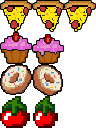
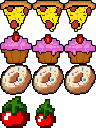
invaders: Add three frames animations

Changed region(s): [[0.3125, 0.25, 1.0, 1.0]]

diff --git a/samples/game-engine/renderer.cpp b/samples/game-engine/renderer.cpp
@@ -4,29 +4,29 @@ namespace ptc {
 
 namespace engine {
 
-  int Renderer::BASE_WIDTH = 800;
-  int Renderer::BASE_HEIGHT = 640;
+int Renderer::BASE_WIDTH = 800;
+int Renderer::BASE_HEIGHT = 640;
 
-  Renderable::Renderable(TextureRegion& textureRegion,
-                         std::shared_ptr<Actor> actor)
-             : textureRegion_{textureRegion}
-             , actor_{actor} {
+Renderable::Renderable(TextureRegion& textureRegion,
+                       std::shared_ptr<Actor> actor)
+           : textureRegion_{textureRegion}
+           , actor_{actor} {
 
-    sprite_.setTexture(textureRegion.getTexture());
-    sprite_.setTextureRect(textureRegion.getInitialRect());
+  sprite_.setTexture(textureRegion.getTexture());
+  sprite_.setTextureRect(textureRegion.getInitialRect());
 
-  }
+}
 
-  void
-  Renderable::render(sf::RenderWindow& window) {
+void
+Renderable::render(sf::RenderWindow& window) {
 
-    if (!visible_) return;
+  if (!visible_) return;
 
-    sprite_.setPosition(actor_->getPos());
-    sprite_.setScale(actor_->getScale());
-    window.draw(sprite_);
+  sprite_.setPosition(actor_->getPos());
+  sprite_.setScale(actor_->getScale());
+  window.draw(sprite_);
 
-  }
+}
 
 std::shared_ptr<Actor>
 Renderable::getActor() {
@@ -35,42 +35,59 @@ Renderable::getActor() {
 
 }
 
-  Renderer::Renderer()
-           : Renderer(BASE_WIDTH, BASE_HEIGHT) { }
+void
+Renderable::setFrame(int i) {
 
-  Renderer::Renderer(size_t w, size_t h)
-           : width_{w}
-           , height_{h} { }
+  int w = textureRegion_.getInitialRect().width;
+  int h = textureRegion_.getInitialRect().height;
 
-  void
-  Renderer::render(sf::RenderWindow& window) {
+  sf::IntRect rect;
+  rect.width = w;
+  rect.height = h;
+  rect.top = textureRegion_.getInitialRect().top;
+  rect.left = textureRegion_.getInitialRect().left + i * w;
 
-    for (const auto& tuple : components_) {
-      auto& list = tuple.second;
-      for (const auto& component : list) {
-        component->render(window);
-      }
+  sprite_.setTextureRect(rect);
+
+}
+
+
+Renderer::Renderer()
+         : Renderer(BASE_WIDTH, BASE_HEIGHT) { }
+
+Renderer::Renderer(size_t w, size_t h)
+         : width_{w}
+         , height_{h} { }
+
+void
+Renderer::render(sf::RenderWindow& window) {
+
+  for (const auto& tuple : components_) {
+    auto& list = tuple.second;
+    for (const auto& component : list) {
+      component->render(window);
     }
-
-
   }
 
-  void
-  Renderer::resize(size_t newWidth, size_t newHeight) {
 
-    width_ = newWidth;
-    height_ = newHeight;
+}
 
-  }
+void
+Renderer::resize(size_t newWidth, size_t newHeight) {
 
-  void
-  Renderer::enqueue(std::string listId,
-                    std::shared_ptr<Renderable>& component) {
+  width_ = newWidth;
+  height_ = newHeight;
 
-    auto& list = components_[listId];
-    list.push_front(component);
+}
 
-  }
+void
+Renderer::enqueue(std::string listId,
+                  std::shared_ptr<Renderable>& component) {
+
+  auto& list = components_[listId];
+  list.push_front(component);
+
+}
 
 std::list<std::shared_ptr<Renderable>>&
 Renderer::getList(std::string listId) {

diff --git a/samples/invaders/world.cpp b/samples/invaders/world.cpp
@@ -4,7 +4,6 @@ namespace ptc {
 
 namespace invader {
 
-size_t World::MAX_NB_FRAMES_NOINPUT = 10;
 size_t World::GAME_WIDTH = 800;
 size_t World::GAME_HEIGHT = 640;
 size_t World::PARTICLE_SIZE = 4;
@@ -12,9 +11,10 @@ float World::INIT_ARROW_SIDE_LEN = 4666.0f;
 float World::ENEMY_SPEED = 16.0f;
 float World::PLAYER_SPEED = 190.0f;
 float World::BULLET_SPEED = 220.0f;
-float World::TIME_BETWEEN_SHOT = 0.7f;
+float World::TIME_BETWEEN_SHOT = 0.8f;
 float World::TIME_BEFORE_RESET_ARROW = 0.45f;
 float World::TIME_TEMPLATE_DETECTION = 2.0f;
+float World::TIME_PLAYER_ANIM = 0.5f;
 float World::TIME_SCALE_TITLE_ANIM = 1.5f;
 
 float World::PARTICLE_SPEED = 68.0f;
@@ -23,7 +23,7 @@ size_t World::TEXT_SIZE_COUNTER = 64;
 size_t World::TEXT_SIZE_GAMEOVER = 48;
 size_t World::TEXT_SIZE_SCORE = 24;
 
-size_t World::NB_ENEMIES = 1;
+size_t World::NB_ENEMIES = 55;
 
 int World::TIME_BEFORE_START = 3;
 int World::TIME_BEFORE_RESET = 5;
@@ -275,7 +275,14 @@ World::updateGame() {
   }
 
   playerActor_->setDelta(deltaTime_);
+  // Resets player initial frame
+  if (timerPlayerAnimation_.getElapsedTime().asSeconds() >= TIME_PLAYER_ANIM) {
+    auto& renderable = renderer_.getList("player").front();
+    renderable->setFrame(0);
+  }
+
   ia_.update(deltaTime_, enemiesList, bulletsList, regionsPool_["bullet"]);
+
   Tracker::instance()->update();
 
   timeBeforeShot_ += deltaTime_;
@@ -413,11 +420,13 @@ World::setupWin() {
   gameoverUI_.setPosition(halfWidth, (GAME_HEIGHT / 4) - halfSize);
 
   scoreText_.setCharacterSize(TEXT_SIZE_GAMEOVER);
-  scoreText_.setPosition(halfWidth, (GAME_HEIGHT / 2) - 24.0f);
+  scoreText_.setString("SCORE: ");
+  scoreText_.setPosition((GAME_WIDTH / 2) - (halfSize * 7) / 2,
+                         (GAME_HEIGHT / 2) - halfSize);
 
   variableText_.setCharacterSize(TEXT_SIZE_GAMEOVER);
   variableText_.setPosition(halfWidth + 10 * halfSize,
-                            (GAME_HEIGHT / 2) - 24.0f);
+                            (GAME_HEIGHT / 2) - halfSize);
 
   timerBeforeStart_.restart();
 
@@ -539,6 +548,7 @@ World::registerEvents() {
 
   auto& player = playerActor_;
   auto& timeShot = timeBeforeShot_;
+  auto& timerPlayerAnim = timerPlayerAnimation_;
   auto& renderer = renderer_;
   auto& pool = regionsPool_;
 
@@ -554,7 +564,7 @@ World::registerEvents() {
 
   });
   processor_->registerEvent(ptc::event::Event::UP, [&timeShot, &player,
-  &renderer, &pool]() ->
+  &renderer, &pool, &timerPlayerAnim]() ->
     void {
 
     if (timeShot < World::TIME_BETWEEN_SHOT) return;
@@ -571,6 +581,11 @@ World::registerEvents() {
 
     renderer.enqueue("bullet", renderable);
     timeShot = 0.0f;
+
+    auto& playerRenderable = renderer.getList("player").front();
+    playerRenderable->setFrame(1);
+
+    timerPlayerAnim.restart();
 
   });
 

diff --git a/samples/invaders/ia.cpp b/samples/invaders/ia.cpp
@@ -12,7 +12,8 @@ IA::IA()
    , dir_{IA::Dir::RIGHT}
    , nbMoves_{IA::MAX_NB_MOVES - 1}
    , elapsed_{0.0f}
-   , elapsedShot_{0.0f} { }
+   , elapsedShot_{0.0f}
+   , playedAnim_{false} { }
 
 void
 IA::update(float delta,
@@ -20,13 +21,23 @@ IA::update(float delta,
            std::list<std::shared_ptr<ptc::engine::Renderable>>& bullets,
            const std::shared_ptr<ptc::engine::TextureRegion>& bulletTexture) {
 
+  static float TIME_BEFORE_MV = 1.0f;
+  static float TIME_BEFORE_SHOT = 1.85f;
+
   elapsed_ += delta;
   elapsedShot_ += delta;
 
   if (delta <= 0.005f) return;
 
-  static float TIME_BEFORE_MV = 1.0f;
-  static float TIME_BEFORE_SHOT = 3.0f;
+  // Plays the move animation
+  if (!playedAnim_ && elapsed_ >= TIME_BEFORE_MV / 2) {
+    int frame = 1;
+    if (dir_ == IA::Dir::RIGHT) frame = 2;
+    for (auto& actor : actors) {
+      actor->setFrame(frame);
+    }
+    playedAnim_ = true;
+  }
 
   if (elapsed_ >= TIME_BEFORE_MV) {
     IA::CmdPtr cmd = nullptr;
@@ -41,8 +52,13 @@ IA::update(float delta,
       auto a = std::dynamic_pointer_cast<MovingActor>(actor->getActor());
       a->setDelta(1.0f);
       cmd->execute(a);
+
+      // Resets animation state
+      actor->setFrame(0);
     }
     elapsed_ = 0.0f;
+    playedAnim_ = false;
+
 
     // Changes direction whevener the enemies have
     // reached the other side.

diff --git a/samples/invaders/world.hpp b/samples/invaders/world.hpp
@@ -43,7 +43,6 @@ class World {
 
   private:
     // Game constants
-    static size_t MAX_NB_FRAMES_NOINPUT;
     static size_t GAME_WIDTH;
     static size_t GAME_HEIGHT;
     static size_t PARTICLE_SIZE;
@@ -55,6 +54,7 @@ class World {
     static float TIME_BETWEEN_SHOT;
     static float TIME_BEFORE_RESET_ARROW;
     static float TIME_TEMPLATE_DETECTION;
+    static float TIME_PLAYER_ANIM;
     static float TIME_SCALE_TITLE_ANIM;
 
     static float PARTICLE_SPEED;
@@ -169,7 +169,7 @@ class World {
     sf::Clock   timerScaleTitle_;
     sf::Clock   timerArrowOutArea_;
     sf::Clock   timerBeforeStart_;
-    sf::Clock   timerBeforeReset_;
+    sf::Clock   timerPlayerAnimation_;
 
     float       timerArrowInArea_;
     bool        titleScaleUp_;
@@ -192,6 +192,7 @@ class World {
     float timeBeforeShot_ = 0.0f;
     float deltaTime_ = 0.0f;
     bool  gameover_ = false;
+
     size_t nbEnemies_;
 
     // Ui variables

diff --git a/samples/invaders/ia.hpp b/samples/invaders/ia.hpp
@@ -53,15 +53,17 @@ class IA {
     static unsigned int MAX_NB_MOVES;
 
   private:
-    MoveLeftCmdPtr                                    leftCmd_;
-    MoveRightCmdPtr                                   rightCmd_;
-    
-    Dir                                               dir_;
+    MoveLeftCmdPtr  leftCmd_;
+    MoveRightCmdPtr rightCmd_;
 
-    unsigned int                                      nbMoves_;
+    Dir             dir_;
 
-    float                                             elapsed_;
-    float                                             elapsedShot_;
+    unsigned int    nbMoves_;
+
+    float           elapsed_;
+    float           elapsedShot_;
+
+    bool            playedAnim_;
 
 };
 

diff --git a/samples/game-engine/texture-region.hpp b/samples/game-engine/texture-region.hpp
@@ -23,12 +23,13 @@ class TextureRegion {
     getNbFrames() { return nbFrames_; }
 
     inline const sf::IntRect&
-    getInitialRect() { return rect_; }
+    getInitialRect() const { return rect_; }
+
 
   private:
     sf::Texture&  atlas_;
-    sf::IntRect         rect_;
-    size_t              nbFrames_;
+    sf::IntRect   rect_;
+    size_t        nbFrames_;
 
 };
 

diff --git a/samples/game-engine/renderer.hpp b/samples/game-engine/renderer.hpp
@@ -30,6 +30,9 @@ class Renderable {
     std::shared_ptr<Actor>
     getActor();
 
+    void
+    setFrame(int i);
+
     inline void
     setVisible(bool v) { visible_ = v; }
 
